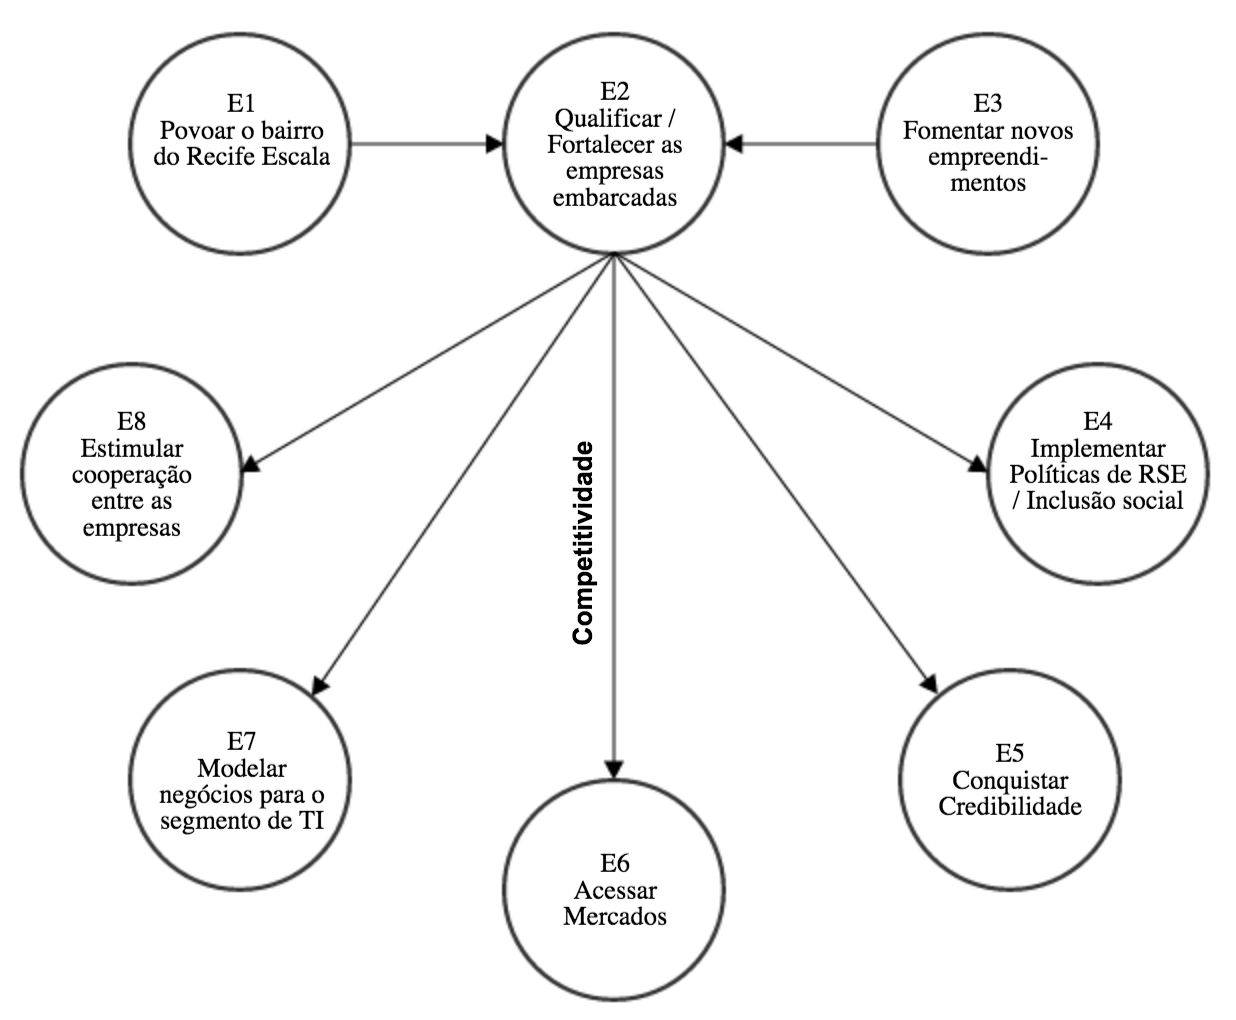
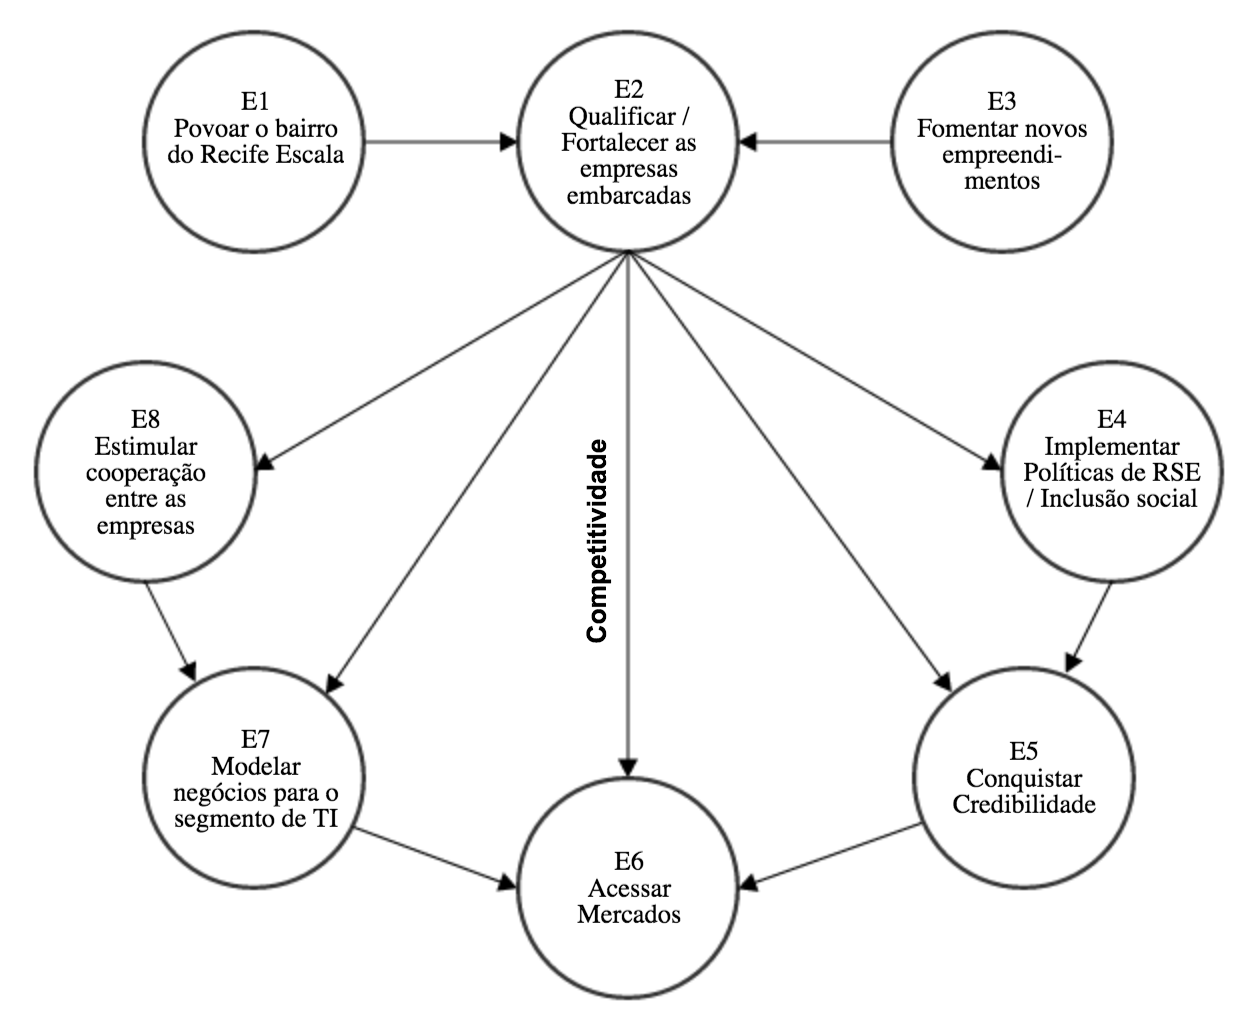
adicionadas estrategias do porto digital

diff --git a/revisao.tex b/revisao.tex
@@ -123,20 +123,35 @@ O TECNOPUC tem como missão criar uma comunidade de pesquisa e inovação transd
 
 \subsection{Porto Digital}
 
-// PARAFRASEAR PORTO DIGITAL
+Assim como o TECNOPUC, o Porto Digital é um dos principais parques tecnológicos e ambientes de inovação do Brasil. Localizado no Recife, atua principalmente nos eixos de software e serviços de Tecnologia da Informação e Comunicação (TIC) e Economia Criativa (EC), com ênfase nos segmentos de games, multimídia, cine-vídeo-animação, música, fotografia e design.
 
-O Porto Digital é um dos principais parques tecnológicos e ambientes de inovação do Brasil e é um dos representantes da nova economia do Estado de Pernambuco. Localizado no Recife, sua atuação se dá nos eixos de software e serviços de Tecnologia da Informação e Comunicação (TIC) e Economia Criativa (EC), com ênfase nos segmentos de games, multimídia, cine-vídeo-animação, música, fotografia e design.
+O Porto Digital é referência nacional do modelo Tripla Hélice, pois é fruto de uma ação coordenada entre governo, academia e empresas. Essa iniciativa propiciou o ambiente necessário para fazer com que o Porto Digital se transformasse num dos principais ambientes de inovação do País. 
 
-O Porto Digital é fruto e referência nacional de uma ação coordenada entre governo, academia e empresas, conhecido como modelo "Triple Helix". Essa iniciativa propiciou o ambiente necessário para fazer com que o Porto Digital se transformasse num dos principais ambientes de inovação do País. 
+Atualmente, o Porto Digital abriga 250 empresas, organizações de fomento e órgãos de Governo e cerca de 7.100 trabalhadores, e foi considerado pela Associação Nacional de Promotoras de Empreendimentos Inovadores (Anprotec), em 2007 e 2011, o melhor parque tecnológico do Brasil. Em 2005 foi considerado o maior parque tecnológico do País pela A.T. Kearney.
 
-Atualmente, o Porto Digital abriga 250 empresas, organizações de fomento e órgãos de Governo e cerca de 7.100 trabalhadores. Desde o final de 2014, o parque também opera nas cidades de Caruaru e Petrolina, localizadas respectivamente no Agreste e Sertão do Estado. O Porto Digital foi considerado pela Associação Nacional de Promotoras de Empreendimentos Inovadores (Anprotec), em 2007 e 2011, o melhor parque tecnológico do Brasil. Em 2005 o ambiente foi considerado o maior do País pela A.T. Kearney.
+De forma a estruturar o plano de desenvolvimento do Arranjo Produtivo Local (APL), o Porto Digital conversou e fez 54 entrevistas com os seus principais \textit{stakeholders}:
 
-\begin{figure}
+\begin{itemize}
+\item Núcleo de Gestão do Porto Digital (NGPD)
+\item Conselho de Administração do NGPD
+\item Instituições Locais (empresas embarcadas e não-embarcadas, órgão de representação de classes, governo estadual e municipal, instituições de ensino superior, entidades de fomento, imprensa e formadores de opinião)
+\item Instituições não-locais (órgãos de representação de classe e de fomento)
+\end{itemize}
+
+A partir das informações obtidas nessas entrevistas, o plano estratégico do porto digital foi estruturado e pode ser representado pela figura \ref{fig:estrategiasPD}.
+
+\begin{figure}[h]
 \caption{Plano Estratégico do Porto Digital}
 \centerline{\includegraphics[scale=0.5]{img/estrategiasPD}}
 \label{fig:estrategiasPD}
 \caption* {Fonte: \citeonline{portodigital}}
 \end{figure}
+
+O eixo principal do plano consiste no fortalecimento das empresas (estratégia 2) para aumentar sua capacidade competitiva e viabilizar o acesso aos mercados nacionais e internacionais (estratégia 6). As demais estratégias atuam no sentido de aumentar a participação das empresas locais nos seus mercados. É importante ressaltar que não há hierarquia entre as estratégias fora do eixo central.
+
+Basicamente, de forma a maximizar a qualificação das empresas embarcadas, é necessário que a economia local seja movimentada, gerando aumento de escala (estratégia 1) e que novos empreendimentos sejam fomentados para incentivar o APL e o setor de TIC. 
+
+Já o acesso aos mercados depende muito da competitividade das empresas do Porto Digital. Para tal, é necessário que haja estímulo à cooperação entre as empresas do ambiente (estratégia 8), que possibilita a modelagem de novos negócios para o segmento, e a implementação de políticas de Responsabilidade Social Empresarial (RSE) e Inclusão Social (estratégia 4) auxiliam na conquista da credibilidade (estratégia 5).
 
 \subsection{\textit{Deutsche Telekom - T-labs}}
 

diff --git a/introducao.tex b/introducao.tex
@@ -1,3 +1,4 @@
+%!TEX root = index.tex
 \chapter[Introdução]{Introdução}
 \label{chap:introducao}
 \section{Contexto}
